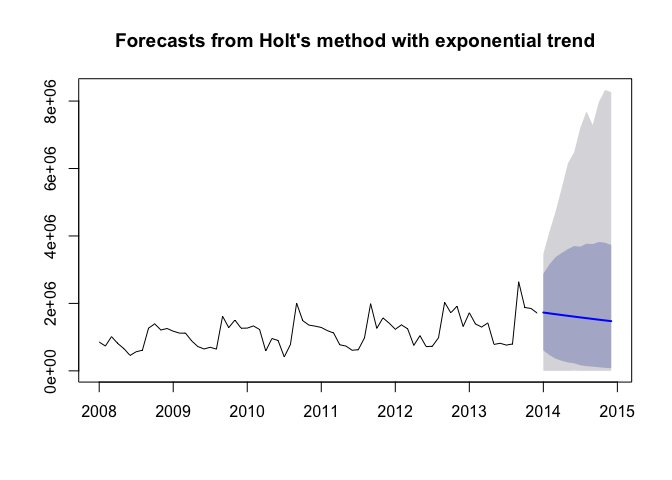
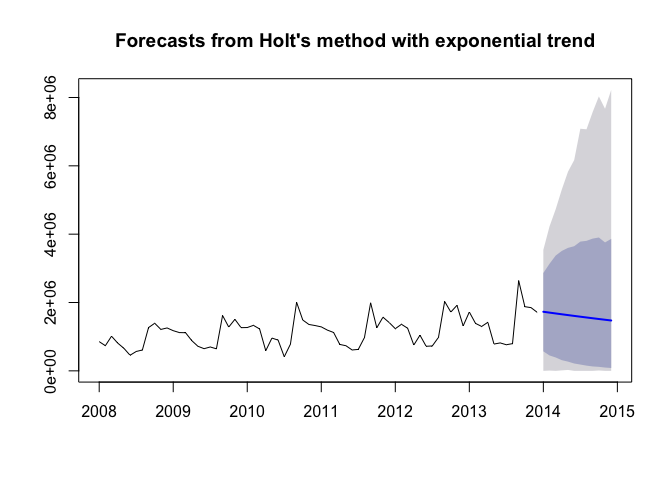
Add files via upload

diff --git a/analysis/data/7.md b/analysis/data/7.md
@@ -208,19 +208,19 @@ summary(Model_holt_2)
 ## Training set 0.0117669
 ## 
 ## Forecasts:
-##          Point Forecast     Lo 80   Hi 80    Lo 95   Hi 95
-## Jan 2014        1729130 603916.35 2876612    0.000 3471547
-## Feb 2014        1704186 468595.69 3160591    0.000 4127002
-## Mar 2014        1679601 360161.83 3373760    0.000 4733171
-## Apr 2014        1655371 298925.31 3499116    0.000 5436546
-## May 2014        1631491 250083.93 3610834    0.000 6161470
-## Jun 2014        1607955 224076.77 3701098 5837.575 6485522
-## Jul 2014        1584758 165866.49 3681583    0.000 7211248
-## Aug 2014        1561896 139600.23 3770322    0.000 7696509
-## Sep 2014        1539364 124599.02 3758149    0.000 7288733
-## Oct 2014        1517157 105260.38 3821232    0.000 7972698
-## Nov 2014        1495271  89119.06 3798496    0.000 8329494
-## Dec 2014        1473700  78907.03 3733958    0.000 8265710
+##          Point Forecast     Lo 80   Hi 80     Lo 95   Hi 95
+## Jan 2014        1729130 571395.40 2863346     0.000 3540201
+## Feb 2014        1704186 450653.22 3132778  8479.432 4224854
+## Mar 2014        1679601 391718.47 3373700     0.000 4728802
+## Apr 2014        1655371 312280.41 3509751 13841.789 5309984
+## May 2014        1631491 270068.14 3599188 27006.871 5828875
+## Jun 2014        1607955 215321.78 3647163     0.000 6167787
+## Jul 2014        1584758 184500.25 3782484     0.000 7085479
+## Aug 2014        1561896 152751.87 3804700     0.000 7068759
+## Sep 2014        1539364 129034.44 3870472     0.000 7575163
+## Oct 2014        1517157 117313.45 3902485 10982.648 8030537
+## Nov 2014        1495271  96787.26 3757740     0.000 7668926
+## Dec 2014        1473700  83619.77 3862398     0.000 8220477
 ```
 
 ```r
@@ -332,19 +332,19 @@ summary(Model_holt_4)
 ## Training set 0.0193486
 ## 
 ## Forecasts:
-##          Point Forecast    Lo 80   Hi 80      Lo 95   Hi 95
-## Jan 2014        1762017 602228.7 2891965 20986.6474 3491653
-## Feb 2014        1757732 489785.8 3233233     0.0000 4304627
-## Mar 2014        1753543 414990.6 3381124     0.0000 4855497
-## Apr 2014        1749447 343070.8 3587209     0.0000 5484255
-## May 2014        1745443 298262.0 3694372 21489.2471 5848083
-## Jun 2014        1741528 257371.0 3713780  4313.9412 6192437
-## Jul 2014        1737699 214178.9 3898362 10145.2696 6658444
-## Aug 2014        1733956 195003.5 4007124 15192.4270 7065721
-## Sep 2014        1730295 149307.4 4097649     0.0000 7856892
-## Oct 2014        1726714 138571.8 4163525  1729.5550 8779355
-## Nov 2014        1723213 121678.3 4225692  7763.9774 9037376
-## Dec 2014        1719788 107608.0 4225651   420.9233 8973971
+##          Point Forecast    Lo 80   Hi 80     Lo 95   Hi 95
+## Jan 2014        1762017 587064.7 2895224 29479.096 3474618
+## Feb 2014        1757732 479917.2 3242668     0.000 4320436
+## Mar 2014        1753543 403758.4 3482050     0.000 4953545
+## Apr 2014        1749447 332460.0 3637807 23311.798 5734975
+## May 2014        1745443 290714.5 3853705 25542.604 6126208
+## Jun 2014        1741528 261178.4 3948475 23203.694 6583188
+## Jul 2014        1737699 219772.8 3942035  1288.816 6847228
+## Aug 2014        1733956 184842.4 4001010  9351.907 7326647
+## Sep 2014        1730295 157668.1 4125081 15660.570 8167072
+## Oct 2014        1726714 141883.8 4144142  5737.849 8408203
+## Nov 2014        1723213 124215.2 4093311     0.000 8948681
+## Dec 2014        1719788 109412.4 4137038     0.000 9110137
 ```
 
 ```r
@@ -535,7 +535,7 @@ plot(Model_hw_2)
 #2137.673 2147.564 2174.100 
 ```
 
-The additive model gives slightly better results than the multiplicative model.
+The multiplicative model gives slightly better results than the additive model.
 
 
 ```r
@@ -586,11 +586,73 @@ write.csv(Model_hw_1_PointForecast,file='Model_hw_1_PointForecast.csv')
 write.csv(Model_hw_2_PointForecast,file='Model_hw_2_PointForecast.csv')
 ```
 
+
+```r
+Model_ses_Comparison <- c(Model_ses$model$aic,Model_ses$model$aicc, Model_ses$model$bic)
+Model_holt_1_Comparison <- c(Model_holt_1$model$aic,Model_holt_1$model$aicc, Model_holt_1$model$bic)
+Model_holt_2_Comparison <- c(Model_holt_2$model$aic,Model_holt_2$model$aicc, Model_holt_2$model$bic)
+Model_holt_3_Comparison <- c(Model_holt_3$model$aic,Model_holt_3$model$aicc, Model_holt_3$model$bic)
+Model_holt_4_Comparison <- c(Model_holt_4$model$aic,Model_holt_4$model$aicc, Model_holt_4$model$bic)
+Model_hw_1_Comparison <- c(Model_hw_1$model$aic,Model_hw_1$model$aicc, Model_hw_1$model$bic)
+Model_hw_2_Comparison <- c(Model_hw_2$model$aic,Model_hw_2$model$aicc, Model_hw_2$model$bic)
+Comparison <- c("AIC", "AICc", "BIC")
+```
+
+
+```r
+ModelCompare <- data.frame(Comparison, Model_ses_Comparison, Model_holt_1_Comparison, Model_holt_2_Comparison, Model_holt_3_Comparison, Model_holt_4_Comparison, Model_hw_1_Comparison, Model_hw_2_Comparison)
+str(ModelCompare)
+```
+
+```
+## 'data.frame':	3 obs. of  8 variables:
+##  $ Comparison             : Factor w/ 3 levels "AIC","AICc","BIC": 1 2 3
+##  $ Model_ses_Comparison   : num  2174 2174 2179
+##  $ Model_holt_1_Comparison: num  2178 2179 2188
+##  $ Model_holt_2_Comparison: num  2217 2217 2226
+##  $ Model_holt_3_Comparison: num  2180 2181 2192
+##  $ Model_holt_4_Comparison: num  2218 2219 2229
+##  $ Model_hw_1_Comparison  : num  2071 2081 2107
+##  $ Model_hw_2_Comparison  : num  2058 2068 2094
+```
+
+We can see from the model comparison that the model that includes the seasonal multiplicative component has the lowest values for AIC, AICc, and BIC. This tells us that Model_hw_2 fits our data the best. We will proceed to use it to forecast the exports of the Red Etel.
+
+<strong>Multiplicative Model</strong>
+
+
+```r
+plot(Model_hw_1, ylab="Red Etel Exports Chulwalar  ", plot.conf=FALSE, type="o", fcol="white", xlab="Year")
+lines(fitted(Model_hw_1), col="red", lty=2)
+lines(fitted(Model_hw_2), col="green", lty=2)
+lines(Model_hw_1$mean, type="o", col="red")
+lines(Model_hw_2$mean, type="o", col="green")
+legend("topleft",lty=1, pch=1, col=1:3, c("data","Holt Winters' Additive","Holt Winters' Multiplicative"))
+```
+
+![](7_files/figure-html/unnamed-chunk-16-1.png)<!-- -->
+
+Forecast Estimates for Red Etel
+
+
+```r
+Model_hw_2_df <-as.data.frame(Model_hw_2) 
+Model_hw_2_PointForecast <- ts(Model_hw_2_df$"Point Forecast", start=c(2014,1), end=c(2014,12), frequency=12)
+Model_hw_2_PointForecast
+```
+
+```
+##            Jan       Feb       Mar       Apr       May       Jun       Jul
+## 2014 1705091.2 1647487.9 1573557.9 1198289.9 1100027.3  952217.4  856616.9
+##            Aug       Sep       Oct       Nov       Dec
+## 2014 1088511.8 2645161.1 2032634.9 2109088.5 1856142.4
+```
+
 ****************************
 <div id='id-section7.1.4'/>
 ####  7.1.4 Innovations state space models for exponential smoothing
 
-The funktion ets() produces a model with the same values as Model_hw_1. The reason for this is that all of the parameters in this model were optimised using the ets() function. The results are a ets(A,A,A) model which is an additive method for trend, seasonality and errors. The previous models also showed the type of ets() model in their summary. In this case the user parameters were either accepted or rejected. As the model has been set to 
+The function ets() produces a model with the same values as Model_hw_1. The reason for this is that all of the parameters in this model were optimised using the ets() function. The results are a ets(A,A,A) model which is an additive method for trend, seasonality and errors. The previous models also showed the type of ets() model in their summary. In this case the user parameters were either accepted or rejected. As the model has been set to 
 "ZZZ", the best model will be automatically chosen. 
 
 
@@ -647,14 +709,14 @@ summary(Model_ets)
 plot(Model_ets)
 ```
 
-![](7_files/figure-html/unnamed-chunk-14-1.png)<!-- -->
+![](7_files/figure-html/unnamed-chunk-18-1.png)<!-- -->
 
 ```r
 Model_ets_forecast <- forecast(Model_ets,h=12)
 plot(Model_ets_forecast)
 ```
 
-![](7_files/figure-html/unnamed-chunk-14-2.png)<!-- -->
+![](7_files/figure-html/unnamed-chunk-18-2.png)<!-- -->
 
 ```r
 #     AIC     AICc      BIC 
@@ -683,3 +745,4 @@ Output instruction for the data export of the results for further use in Excel.
 ```r
 #write.csv(Model_ets_PointForecast,file='Model_ets_PointForecast.csv')
 ```
+
